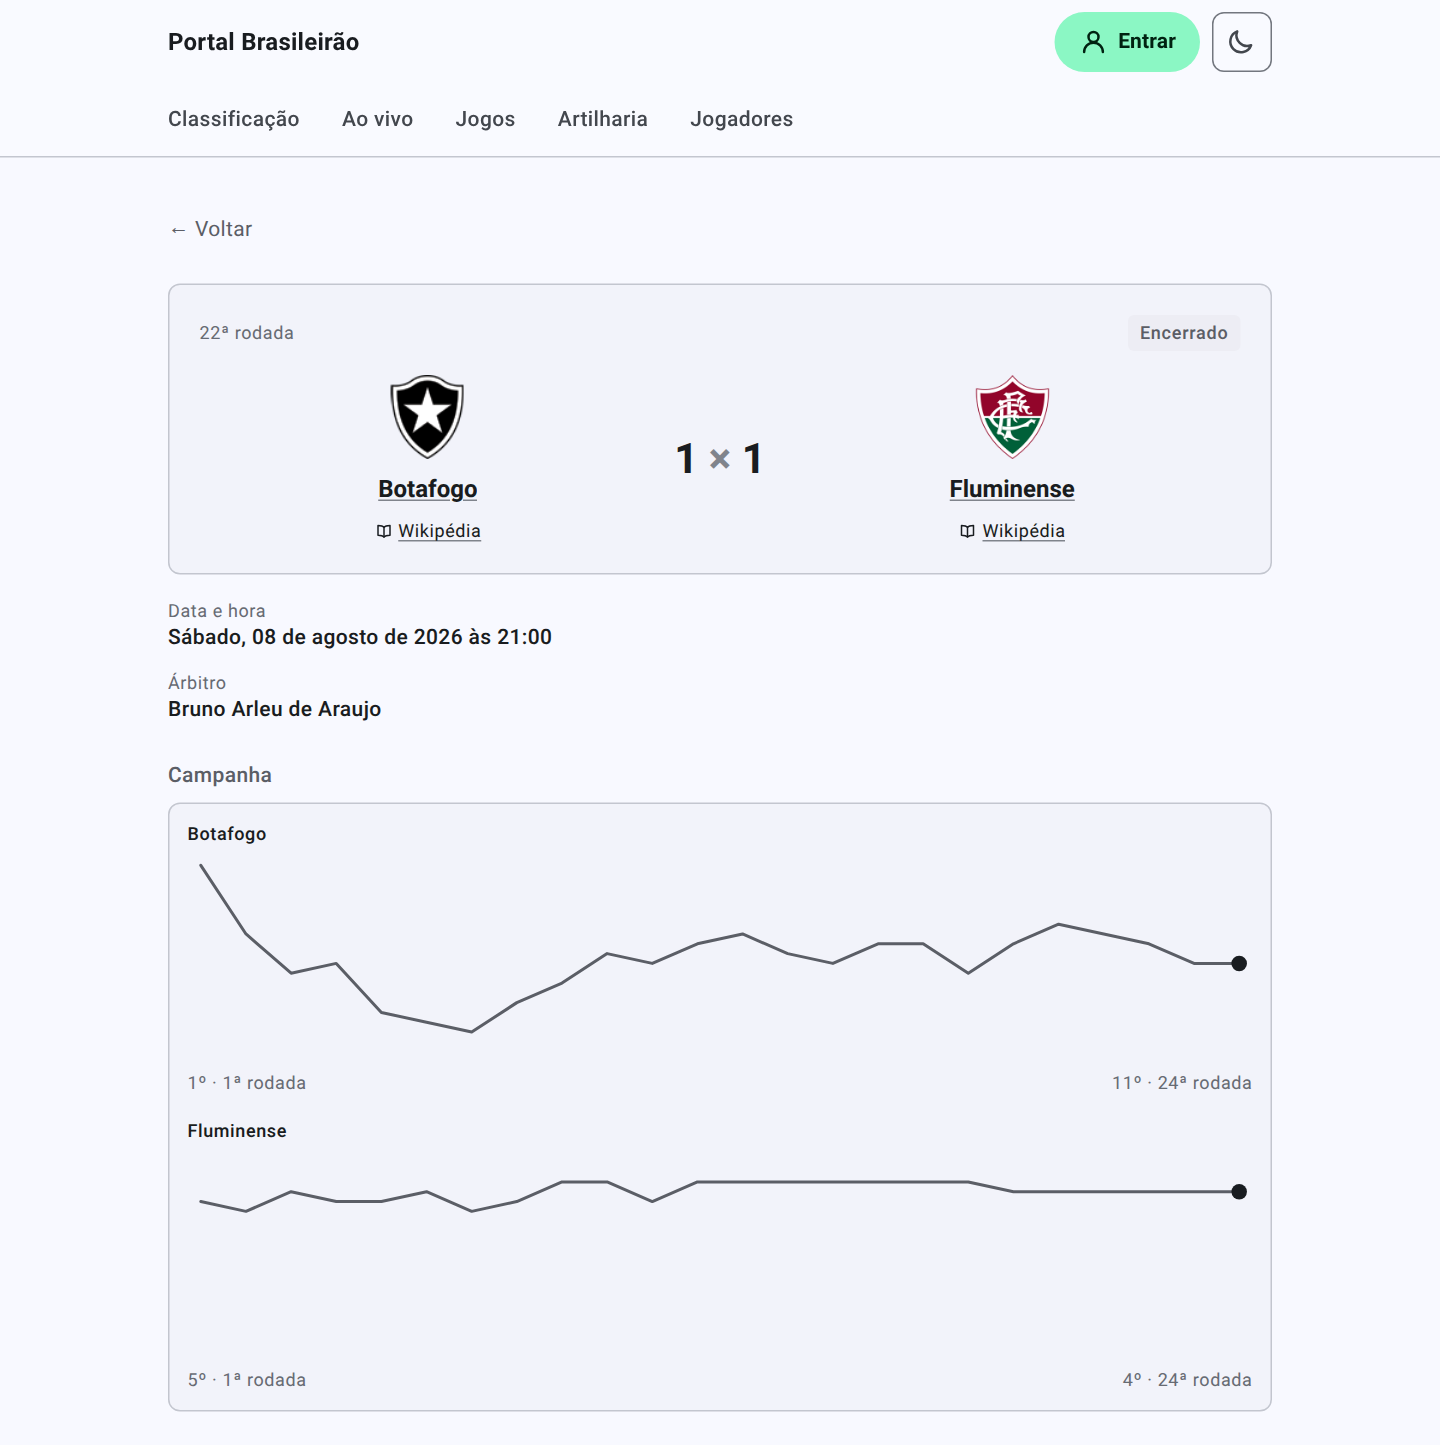
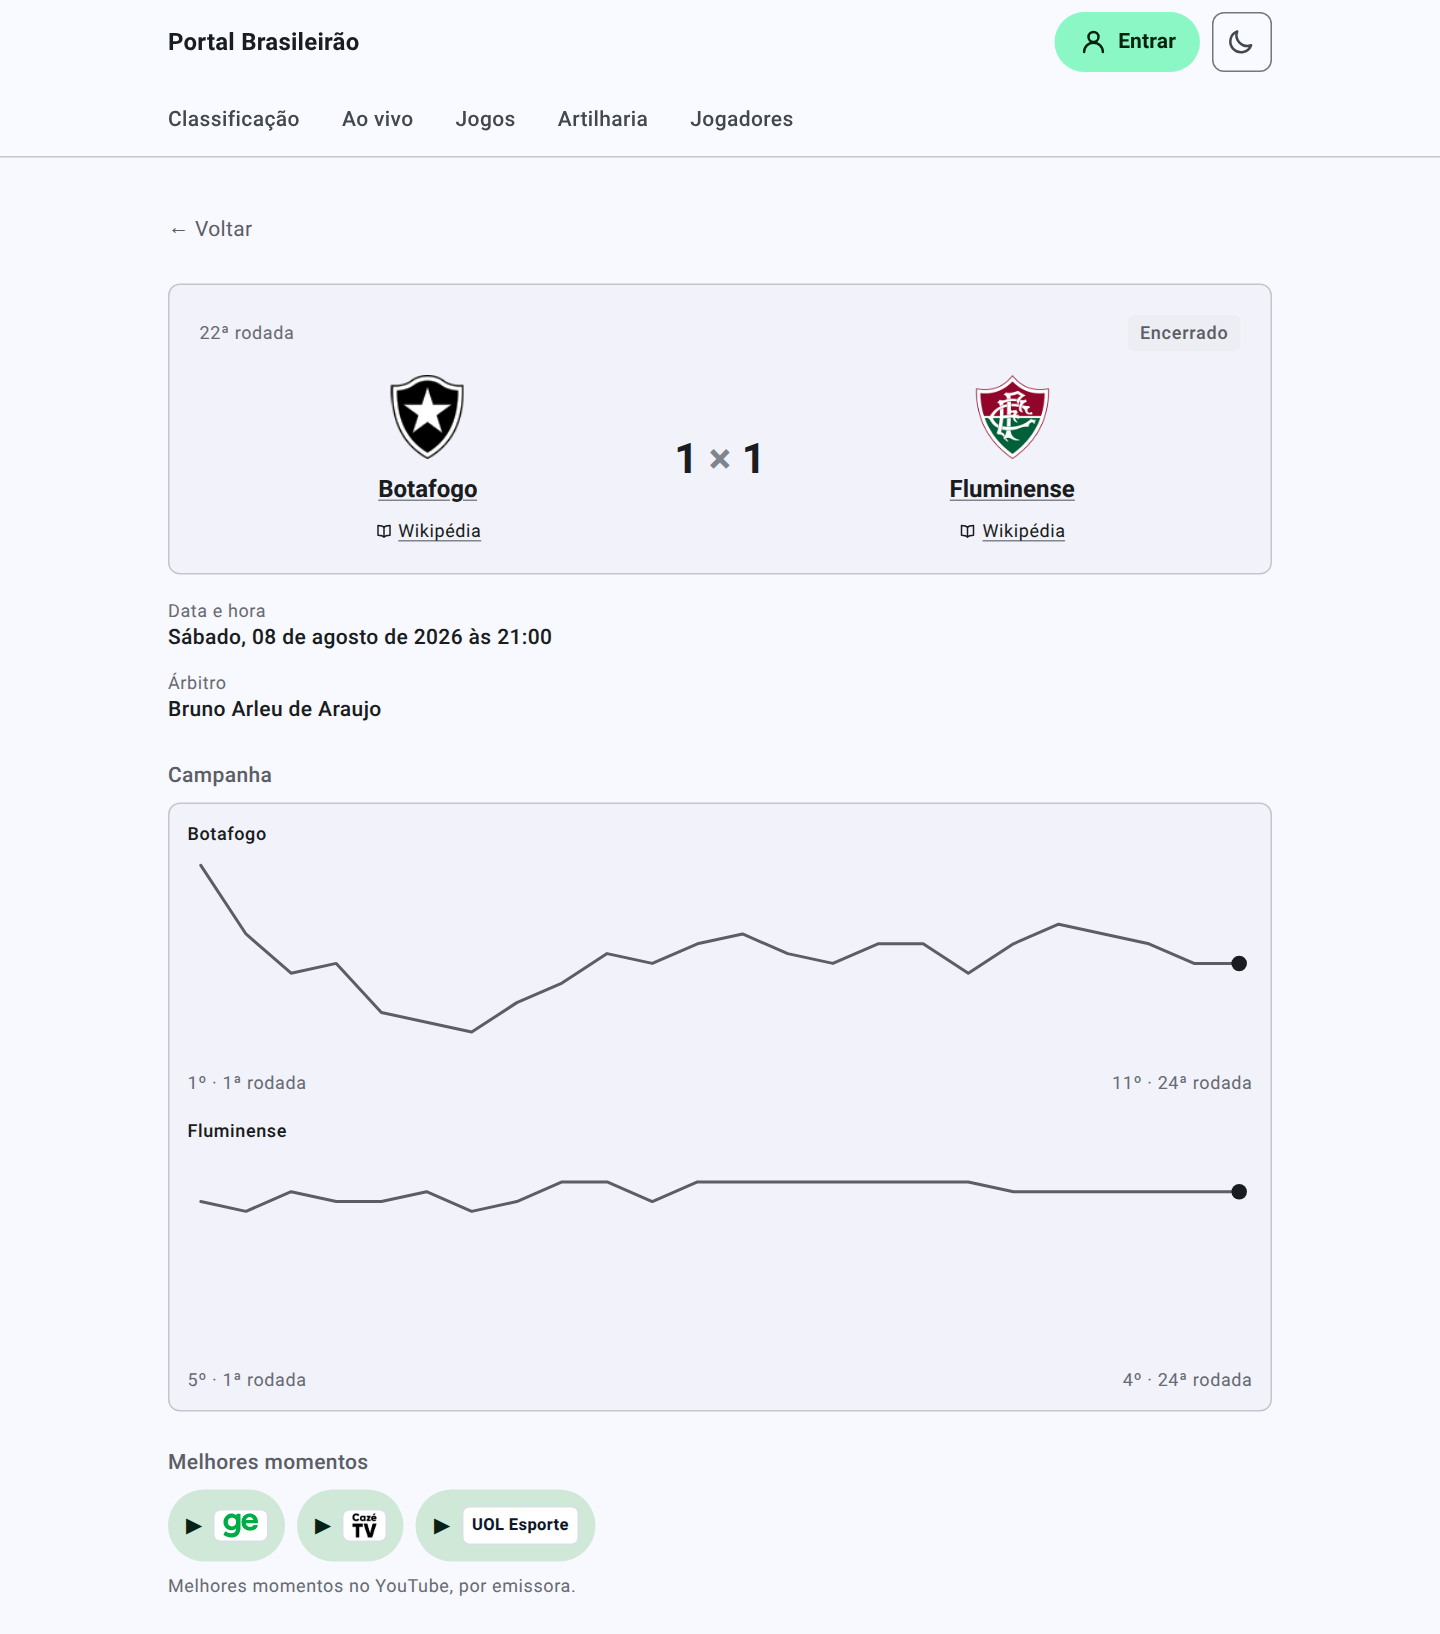
MAX_HEIGHT 1080: put Melhores momentos back in frame
#199 added 32dp of sticky header to every route. On `partida/554951` that pushed
**Melhores momentos** past the 1040 crop line, so the crop fell back to the
previous boundary: that image shrank 141px while every other cropped capture grew
by exactly 48, and the committed set stopped illustrating the feature anywhere.
#204 found it, recorded it, and correctly declined to fix the tooling inside a
refresh.

The value is measured rather than rounded up to something comfortable. That
section runs 965..1065 at the 960px capture viewport, so anything below 1065 does
not fix it - and raising it too far silently pulls *other* pages past their next
boundary, which is a change to what the README documents rather than a
restoration. Crop heights per route at candidate values, measured against
production:

               1040  1080  1090  1105
    ao-vivo     970   970   970  1108
    jogadores  1036  1036  1084  1084
    554951      963  1089  1089  1089
    554977     1023  1023  1023  1125

Safe band [1065, 1089]: at 1090 Jogadores joins, at 1105 two more. 1080 sits
inside it with room either way and moves exactly the one pair. Confirmed after
the fact - both 554951 captures went 1445 -> 1634, which is 1089 x 1.5, and no
other image changed.

The cropped viewport now reads `MAX_HEIGHT` rather than repeating 1040. They are
separate concerns, but a crop taller than the viewport clips content that was
never scrolled into view, and the crests and broadcaster marks are lazy - so the
[…]

diff --git a/scripts/screenshot.ts b/scripts/screenshot.ts
@@ -256,8 +256,46 @@ const slug =
  */
 const fullPage = !mobile && route === "/";
 
-/** Roughly how tall a cropped shot may be, before it is trimmed to a boundary. */
-const MAX_HEIGHT = 1040;
+/**
+ * Roughly how tall a cropped shot may be, before it is trimmed to a boundary.
+ *
+ * **1080 rather than 1040, and the 40px is one page's missing section.** #199
+ * added 32dp of sticky header to every route, which pushed `partida-554951`'s
+ * **Melhores momentos** past the old line: the crop fell back to the previous
+ * boundary, that image shrank 141px while every other cropped capture grew by
+ * exactly 48, and the committed set stopped illustrating that feature anywhere.
+ * A capture that gets *shorter* is content leaving the frame, and nothing checks
+ * for it — the gate compares appearance sources and never what a picture shows.
+ *
+ * **And a capture that gets *longer* is content arriving, which owes the alt
+ * text the same re-read.** That half is here because raising this number is what
+ * proved it: #204 had removed the melhores-momentos clause from both 554951
+ * captions when the section left the frame, so restoring the section made those
+ * captions wrong in the other direction. Only one direction had been written
+ * down, and it was the one that had not bitten anybody. A height that moves at
+ * all — either way — is a caption to open the picture and re-read.
+ *
+ * **The value is measured, not rounded up to something comfortable.** That
+ * section runs 965..1065 at this viewport, so anything below 1065 does not fix
+ * it; and raising it too far silently pulls *other* pages past their next
+ * boundary, which is a change to what the README documents rather than a
+ * restoration. Crop heights per route at candidate values:
+ *
+ *                1040  1080  1090  1105
+ *     ao-vivo     970   970   970  1108
+ *     jogadores  1036  1036  1084  1084
+ *     554951      963  1089  1089  1089
+ *     554977     1023  1023  1023  1125
+ *
+ * The safe band is [1065, 1089] — at 1090 Jogadores joins, at 1105 two more.
+ * 1080 sits inside it with room either way and moves exactly one pair.
+ *
+ * Keep this equal to the cropped viewport height below. They are separate
+ * concerns — one bounds the crop, the other decides what is rendered — but a
+ * crop taller than the viewport clips content that was never scrolled into
+ * view, and the crests and broadcaster marks are lazy.
+ */
+const MAX_HEIGHT = 1080;
 
 mkdirSync(outDir, { recursive: true });
 
@@ -377,7 +415,7 @@ const context = await browser.newContext({
   // The layout is capped at max-w-3xl, so a very wide shot is mostly empty
   // background. This is wide enough to show the full table without padding it
   // out with dead space.
-  viewport: mobile ? { width: 375, height: 812 } : { width: 960, height: fullPage ? 900 : 1040 },
+  viewport: mobile ? { width: 375, height: 812 } : { width: 960, height: fullPage ? 900 : MAX_HEIGHT },
   ...(mobile ? { isMobile: true, hasTouch: true } : {}),
   // 2x would make a full-page shot of a 20-row table needlessly heavy for a
   // README; 1.5 still looks sharp on a high-density display. A phone shot is a

diff --git a/README.md b/README.md
@@ -78,9 +78,9 @@ a hue pair would be the only place colour carried meaning no token defines. **Me
 momentos** links each broadcaster's own package; where none is curated it falls back to a
 YouTube search and says so.*
 
-![Página da partida Botafogo 1 x 1 Fluminense no tema claro: a 22ª rodada à esquerda e a etiqueta Encerrado à direita; o placar com os escudos dos dois clubes e, sob o nome de cada um, uma ligação para o seu artigo na Wikipédia; a data e a hora do jogo; e a linha do árbitro, que nomeia Bruno Arleu de Araujo. Abaixo, as campanhas dos dois clubes empilhadas — o Botafogo caindo do 1º ao 11º lugar e o Fluminense quase reto entre o 5º e o 4º.](docs/screenshots/partida-554951-light.png)
+![Página da partida Botafogo 1 x 1 Fluminense no tema claro: a 22ª rodada à esquerda e a etiqueta Encerrado à direita; o placar com os escudos dos dois clubes e, sob o nome de cada um, uma ligação para o seu artigo na Wikipédia; a data e a hora do jogo; e a linha do árbitro, que nomeia Bruno Arleu de Araujo. Abaixo, as campanhas dos dois clubes empilhadas — o Botafogo caindo do 1º ao 11º lugar e o Fluminense quase reto entre o 5º e o 4º — e os melhores momentos na ge, na CazéTV e no UOL Esporte.](docs/screenshots/partida-554951-light.png)
 
-![A mesma página da partida no tema escuro, com o mesmo placar e escudos, as mesmas ligações para a Wikipédia sob cada clube, a mesma linha do árbitro e as mesmas campanhas dos dois clubes.](docs/screenshots/partida-554951-dark.png)
+![A mesma página da partida no tema escuro, com o mesmo placar e escudos, as mesmas ligações para a Wikipédia sob cada clube, a mesma linha do árbitro, as mesmas campanhas dos dois clubes e os mesmos melhores momentos.](docs/screenshots/partida-554951-dark.png)
 
 *A second match page, and the only capture that shows the **Árbitro** line. It is here rather
 than in place of the one above because no single fixture can carry both: upstream names an
